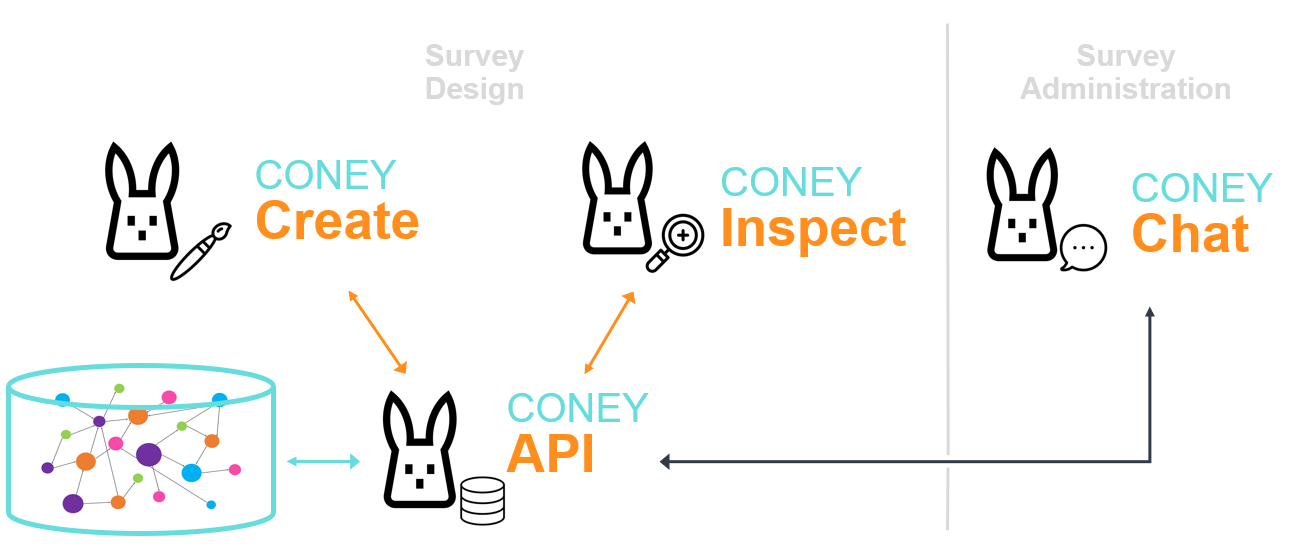
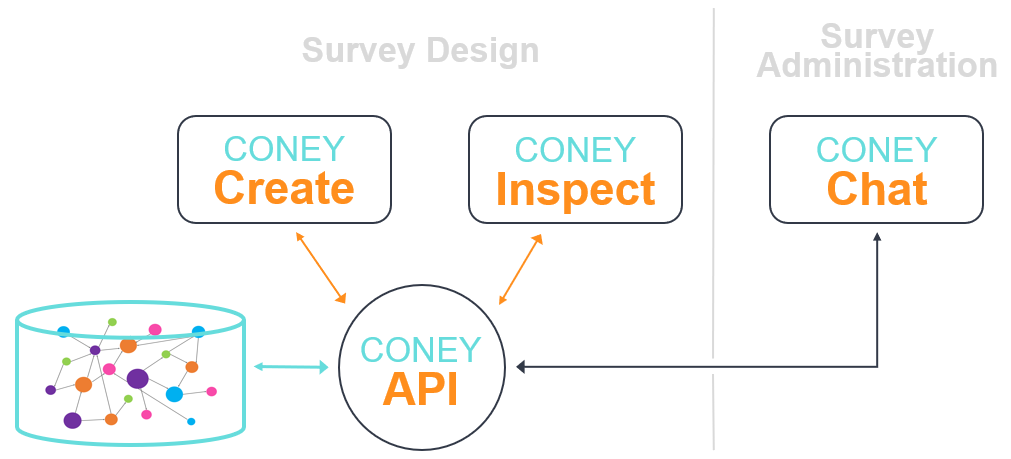
Update coney architecture, README

diff --git a/README.md b/README.md
@@ -37,7 +37,7 @@ The repository contains a docker-compose file to build and deploy the entire pro
 A utility script is added to the repository to handle common commands. Check line endings before running it on Windows.
 
 ```
-$ ./coney.sh help
+$ sh coney.sh help
 
 Usage: <command> [image] [options]
 
@@ -58,7 +58,7 @@ Options:
 
 ### Deployment
 
-The provided docker-compose file is configured to launch a local instance of Coney. We assume [Docker](https://docs.docker.com/get-docker/) is up and running on your machine. Then execute the following commands to launch Coney:
+The provided docker-compose file is configured to launch a local instance of Coney. We assume [Docker](https://docs.docker.com/get-docker/) is up and running on your machine. Then execute the following commands to launch Coney (depending on your operating system you may need to run the commands using `sudo` to reach the Docker Daemon):
 
 ```
 sh coney.sh build
